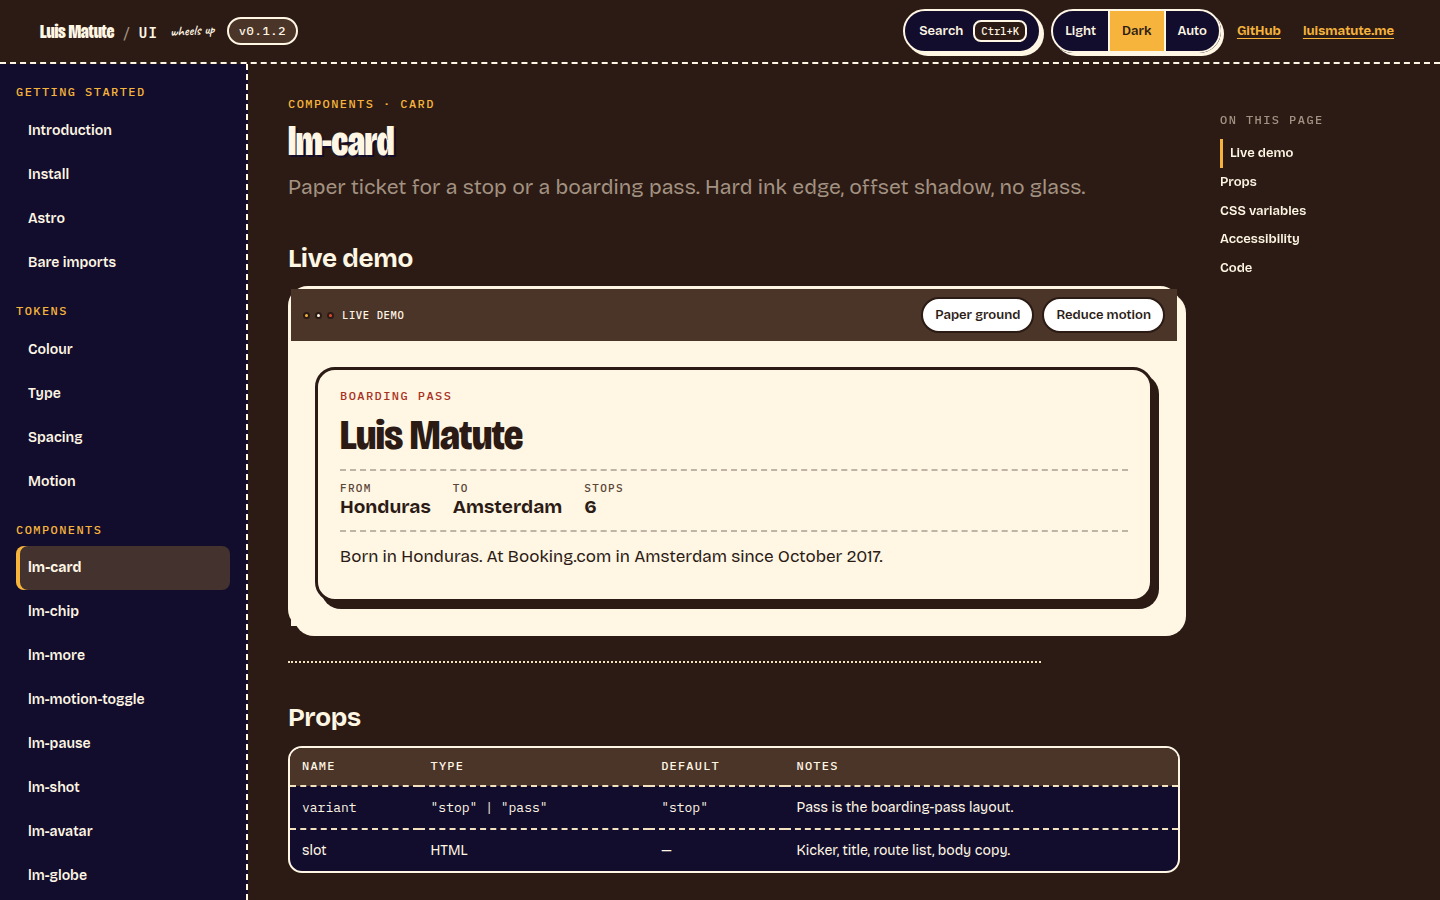
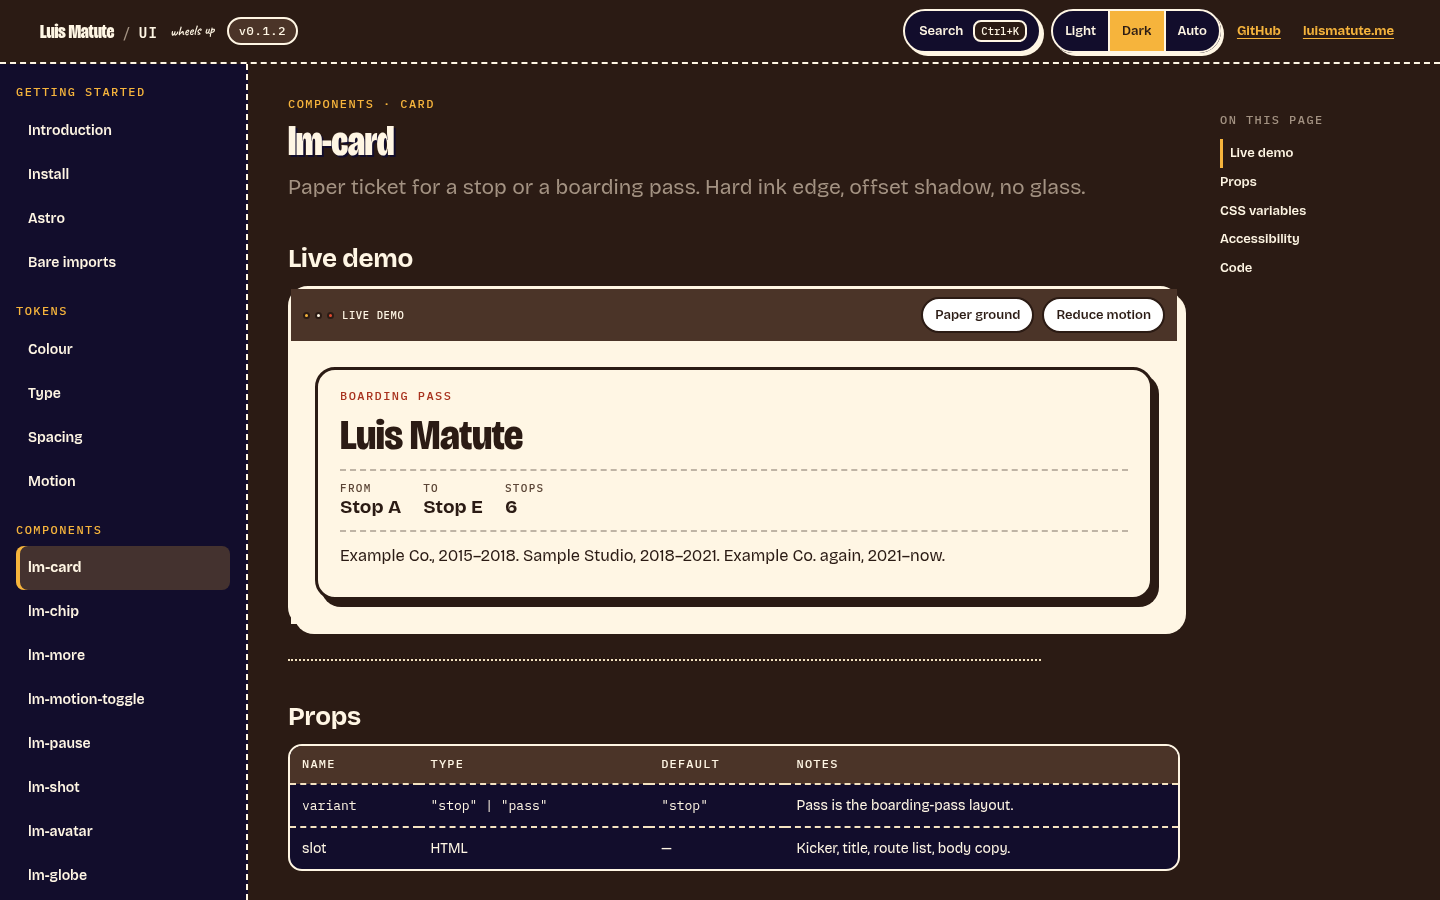
docs(design): replace real biography with generic mock content

diff --git a/design/docs-shell/mock/index.html b/design/docs-shell/mock/index.html
@@ -182,11 +182,11 @@
                     <dl class="lm-route">
                       <div>
                         <dt>From</dt>
-                        <dd>Honduras</dd>
+                        <dd>Stop A</dd>
                       </div>
                       <div>
                         <dt>To</dt>
-                        <dd>Amsterdam</dd>
+                        <dd>Stop E</dd>
                       </div>
                       <div>
                         <dt>Stops</dt>
@@ -194,8 +194,8 @@
                       </div>
                     </dl>
                     <p class="lm-intro">
-                      Born in Honduras. At Booking.com in Amsterdam since
-                      October 2017.
+                      Example Co., 2015–2018. Sample Studio, 2018–2021.
+                      Example Co. again, 2021–now.
                     </p>
                   </lm-card>
                 </div>

diff --git a/design/docs-shell/SPEC.md b/design/docs-shell/SPEC.md
@@ -128,7 +128,7 @@ A saved Light or Dark choice is applied by a tiny **external, render-blocking** 
 
 A saved Dark theme must **never** flash Light on load. If `theme.js` is deferred, async, inline, or placed after CSS, Dark users on a light OS will paint paper first. That fails this spec.
 
-Docs `data-theme` is only `light` | `dark`. Scene themes (`hero`, `sandals`, `move`, …) stay on the **demo stage**, never on `html`.
+Docs `data-theme` is only `light` | `dark`. Scene themes (`hero`, `move`, …) stay on the **demo stage**, never on `html`.
 
 ## Layout grid
 
@@ -387,3 +387,11 @@ Shot helpers: `?shot=search`, `?shot=search-empty`, `?shot=drawer`. Theme stills
 - [ ] Colour is not the only current-page cue (inset + weight)
 - [ ] Saved Dark never flashes Light (blocking `theme.js` before CSS)
 - [ ] Base path `/ui/` on every in-site link in the real build
+
+## Demo content
+
+Mocks use generic content only, never a real biography.
+
+- Stops: "Stop A" to "Stop E". Companies: "Example Co.", "Sample Studio". Years: 2015–2018, 2018–2021, 2021–now.
+- Default globe route: US East Coast to Iberia.
+- Stamp illustration label: "DESTINATION · ARRIVALS". The city part is a configurable attribute (suggested name: `city`), set in uppercase in the existing stamp type and colour. Only the text changes; the stamp geometry stays as it is.
